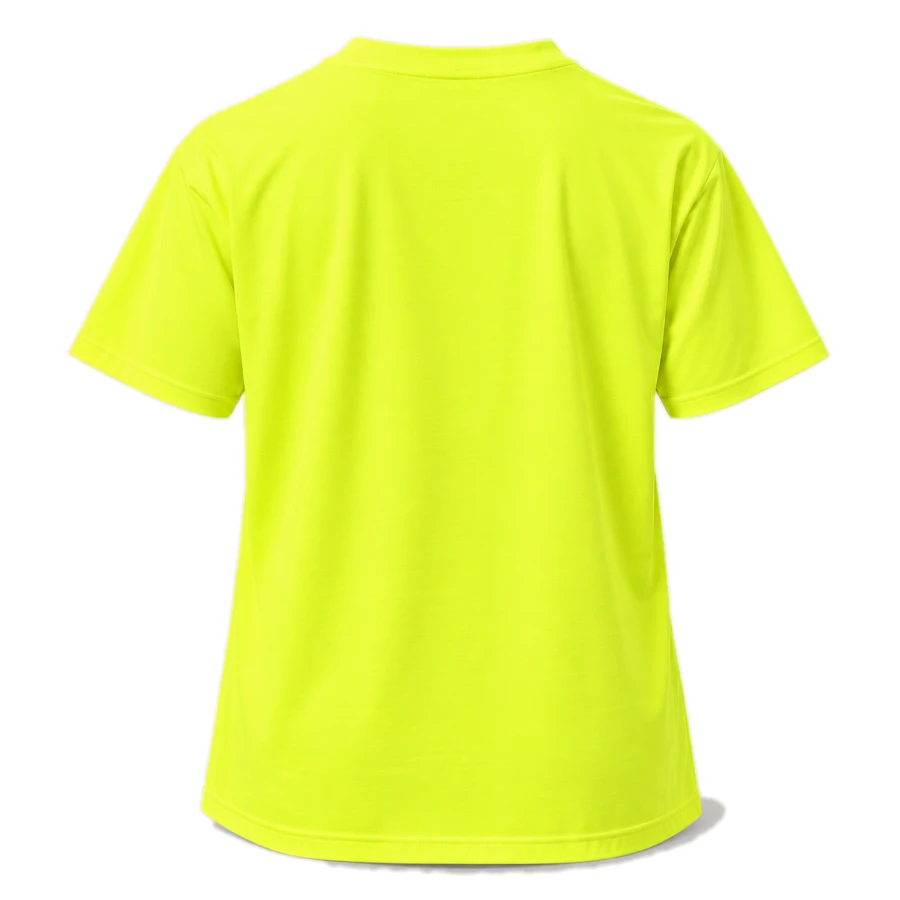
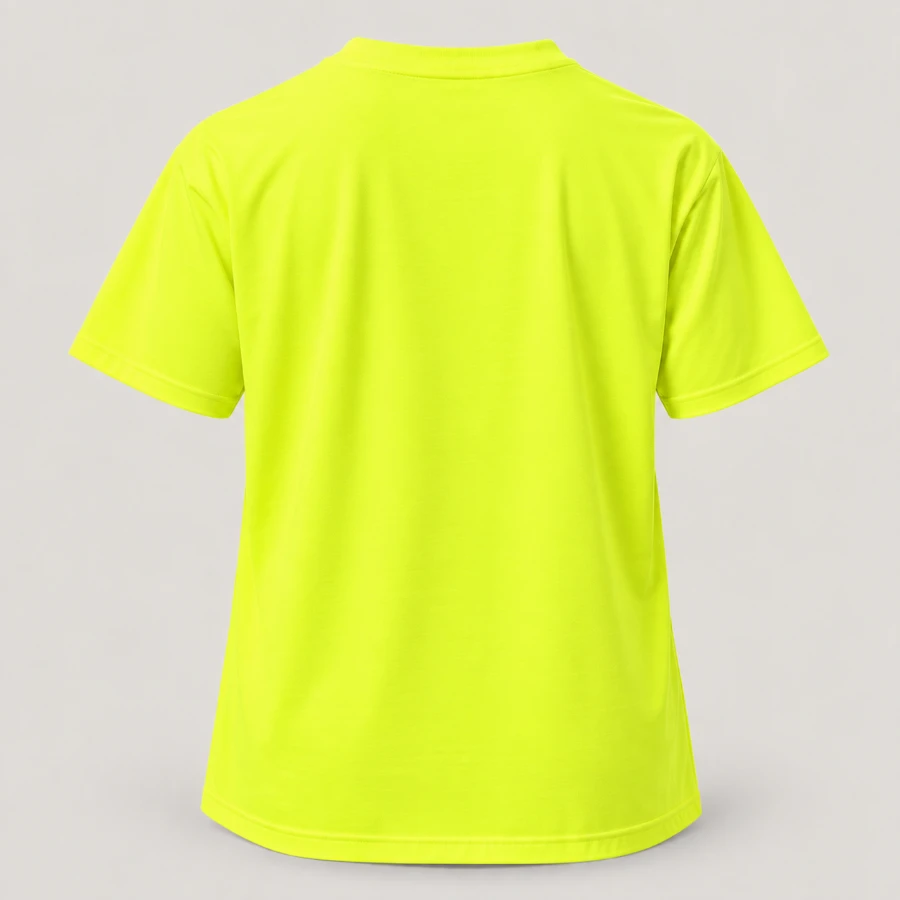
T-shirts: keep the photos' light grey background, cards tinted to match
Claude-Session: https://claude.ai/code/session_019xa6L3VDLUS6Spv4RoBBK9

diff --git a/components/ProductArt.tsx b/components/ProductArt.tsx
@@ -247,7 +247,7 @@ const photo = (
 // gallery shows a mix of people. Add more photos as extra entries in an array.
 // Product-only photos (no people). Items without one fall back to the drawing.
 const PHOTOS: Record<string, Photo | Photo[]> = {
-  // T-shirts, all on a white background
+  // T-shirts, on the light grey studio background of the photos
   'tee:#1b1b1b': [photo('t-tee-black-m', 900, 900, 450, 290, 370, 290)],
   'tee:#f4f4f0': [photo('t-tee-white-m', 900, 900, 450, 290, 370, 290)],
   'tee:#e8f525': [photo('t-tee-yellow-m', 900, 900, 450, 290, 370, 290)],
@@ -375,6 +375,13 @@ function photoFor(art: Art, color: string, slogan: string, fit?: Fit) {
   let hash = 0
   for (const ch of slogan) hash = (hash * 31 + ch.charCodeAt(0)) | 0
   return found[Math.abs(hash) % found.length]
+}
+
+// Background colour behind a photo, so the card around it matches (tees are on light grey)
+export const TEE_BG = '#e0ddd8'
+export function photoBg(art: Art, color: string, slogan: string, fit?: Fit) {
+  const p = photoFor(art, color, slogan, fit)
+  return p && p.src.includes('/t-tee-') ? TEE_BG : undefined
 }
 
 export function hasPhoto(art: Art, color: string, slogan: string, fit?: Fit) {

diff --git a/components/Designer.tsx b/components/Designer.tsx
@@ -3,7 +3,7 @@
 import Link from 'next/link'
 import { useState } from 'react'
 import FavouriteButton from './FavouriteButton'
-import ProductArt, { photoColor } from './ProductArt'
+import ProductArt, { photoBg, photoColor } from './ProductArt'
 import ShareButton from './ShareButton'
 import SizeChart from './SizeChart'
 import { addToCart } from '@/lib/cart'
@@ -96,7 +96,10 @@ export default function Designer({
     <div className="grid gap-4 pb-24 md:grid-cols-2 md:gap-10 md:pb-0">
       {/* Pinned under the header so the preview stays in view while choosing */}
       <div className="sticky top-[58px] z-10 -mx-4 self-start bg-paper px-4 pt-2 pb-2 md:top-20 md:mx-0 md:p-0">
-        <div className="relative rounded-2xl border-2 border-ink bg-white p-2 md:p-8">
+        <div
+          className="relative rounded-2xl border-2 border-ink bg-white p-2 md:p-8"
+          style={{ background: photoBg(garment.art, color.hex, text, fit) }}
+        >
           {/* keyed so switching item or colour fades the new one in instead of jumping */}
           <div key={`${garment.id}/${color.name}/${fit}`} className="animate-swap">
             <ProductArt

diff --git a/components/ItemCard.tsx b/components/ItemCard.tsx
@@ -1,6 +1,6 @@
 import Link from 'next/link'
 import FavouriteButton from './FavouriteButton'
-import ProductArt from './ProductArt'
+import ProductArt, { photoBg } from './ProductArt'
 import ShareButton from './ShareButton'
 import type { Art, Fit, SignPrint } from '@/lib/catalog'
 
@@ -38,7 +38,10 @@ export default function ItemCard({
   return (
     <div className="group relative overflow-hidden rounded-2xl border-2 border-ink bg-white transition hover:-translate-y-1 hover:shadow-[6px_6px_0_var(--color-ink)]">
       <Link href={href} className="block">
-        <div className="relative bg-white p-6">
+        <div
+          className="relative bg-white p-6"
+          style={{ background: photoBg(art, color, text, fit) }}
+        >
           <ProductArt
             art={art}
             slogan={text}

diff --git a/components/SloganCard.tsx b/components/SloganCard.tsx
@@ -3,7 +3,7 @@
 import Link from 'next/link'
 import { useRef, useState } from 'react'
 import FavouriteButton from './FavouriteButton'
-import ProductArt, { hasPhoto, photoColor } from './ProductArt'
+import ProductArt, { hasPhoto, photoBg, photoColor } from './ProductArt'
 import ShareButton from './ShareButton'
 import {
   collections,
@@ -71,6 +71,7 @@ export default function SloganCard({
               href={designHref({ slogan: slogan.id, garment: g.id })}
               aria-label={`${title} on ${g.withArticle}`}
               className="block w-full shrink-0 snap-center p-6"
+              style={{ background: photoBg(g.art, c.hex, sloganText(slogan)) }}
             >
               <ProductArt
                 art={g.art}
